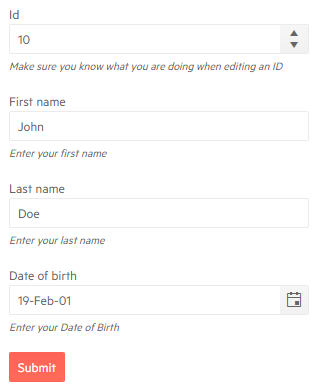
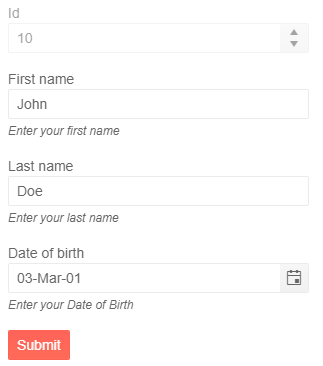
chore(form): update examples with editable

diff --git a/components/form/overview.md b/components/form/overview.md
@@ -50,15 +50,21 @@ To use the Form component with a model:
 
     public class Person
     {
-        [Range(100, 1000, ErrorMessage ="The Id must be between 100 and 1000")]
+        [Editable(false)]
         public int Id { get; set; }
+
         [Required]
-        [MaxLength(20, ErrorMessage ="The first name should be maximum 20 characters long")]
+        [MaxLength(20, ErrorMessage = "The first name should be maximum 20 characters long")]
+        [Display(Name = "First Name")]
         public string FirstName { get; set; }
+
         [Required]
         [MaxLength(25, ErrorMessage = "The last name should be maximum 25 characters long")]
+        [Display(Name = "Last Name")]
         public string LastName { get; set; }
+
         [Required]
+        [Display(Name = "Date of Birth")]
         public DateTime? DOB { get; set; }
     }
 }
@@ -104,15 +110,21 @@ To use the Form component with an EditContext:
 
     public class Person
     {
-        [Range(100, 1000, ErrorMessage ="The Id must be between 100 and 1000")]
+        [Editable(false)]
         public int Id { get; set; }
+
         [Required]
-        [MaxLength(20, ErrorMessage ="The first name should be maximum 20 characters long")]
+        [MaxLength(20, ErrorMessage = "The first name should be maximum 20 characters long")]
+        [Display(Name = "First Name")]
         public string FirstName { get; set; }
+
         [Required]
         [MaxLength(25, ErrorMessage = "The last name should be maximum 25 characters long")]
+        [Display(Name = "Last Name")]
         public string LastName { get; set; }
+
         [Required]
+        [Display(Name = "Date of Birth")]
         public DateTime? DOB { get; set; }
     }
 }
@@ -176,7 +188,7 @@ The Form also uses the the following attributes from the model:
 
 * `[Enabled(false)]` - to render the built-in editor as disabled so the user cannot change its value.
 
-You can customize the editors further through the [form items]({%slug form-formitems%}).
+You can customize the editors further through the [form items]({%slug form-formitems%}). Explicit settings you provide through the parameters will take precedence over data annotation attributes.
 
 ## Features
 

diff --git a/components/form/events.md b/components/form/events.md
@@ -70,6 +70,7 @@ The `OnSubmit` event is mapped to the `OnSubmit` event of the <a target="_blank"
 
     public class Person
     {
+        [Editable(false)]
         public int Id { get; set; }
         [Required(ErrorMessage ="Add your first name")]
         public string FirstName { get; set; }
@@ -123,6 +124,7 @@ The `OnValidSubmit` event fires when the form is submitted and there are no vali
 
     public class Person
     {
+        [Editable(false)]
         public int Id { get; set; }
         [Required(ErrorMessage = "Add your first name")]
         public string FirstName { get; set; }
@@ -175,6 +177,7 @@ The `OnInvalidSubmit` event fires when there are validation errors in the Form u
 
     public class Person
     {
+        [Editable(false)]
         public int Id { get; set; }
         [Required(ErrorMessage = "Add your first name")]
         public string FirstName { get; set; }

diff --git a/components/form/formitems/overview.md b/components/form/formitems/overview.md
@@ -54,7 +54,7 @@ The `FormItem` tag exposes the following parameters which you can use to customi
         <DataAnnotationsValidator></DataAnnotationsValidator>
     </FormValidation>
     <FormItems>
-        <FormItem Field="@nameof(Person.Id)" LabelText="Id" Hint="Make sure you know what you are doing when editing an ID"></FormItem>
+        <FormItem Field="@nameof(Person.Id)" Enabled="false" LabelText="Id"></FormItem>
         <FormItem Field="@nameof(Person.FirstName)" LabelText="First name" Hint="Enter your first name"></FormItem>
         <FormItem Field="@nameof(Person.LastName)" LabelText="Last name" Hint="Enter your last name" ColSpan="2"></FormItem>
         <FormItem Field="@nameof(Person.DOB)" LabelText="Date of birth" Hint="Enter your Date of Birth"></FormItem>
